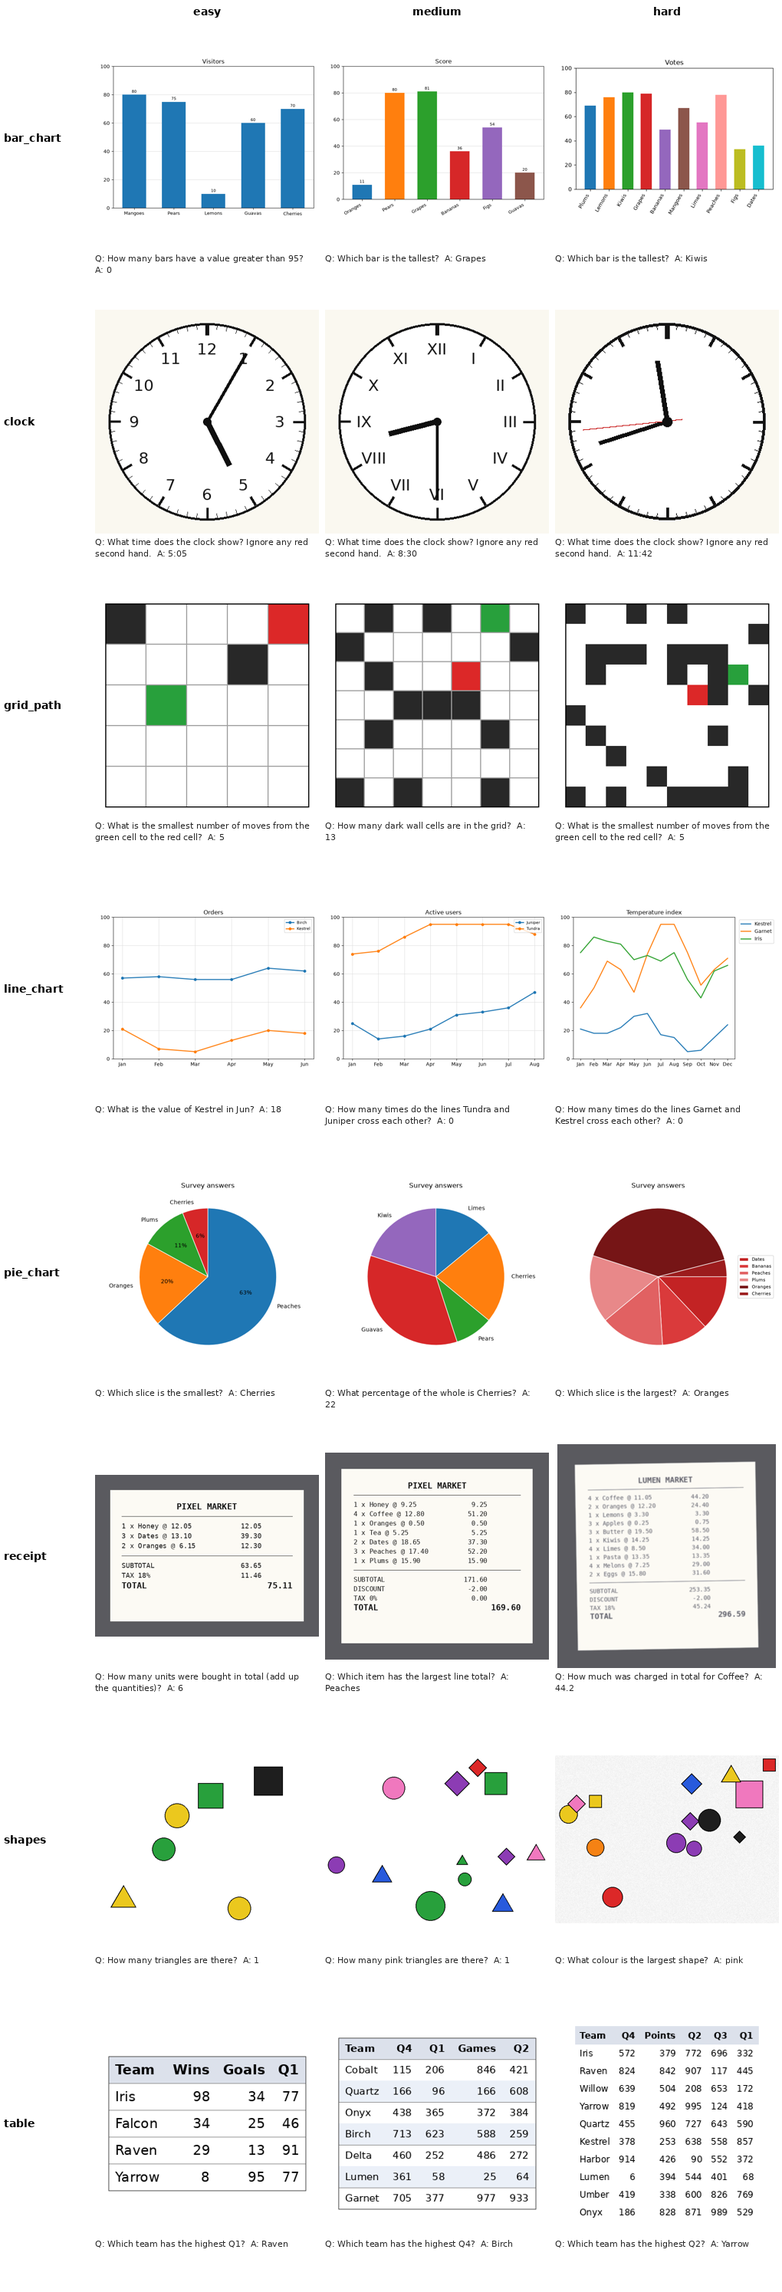
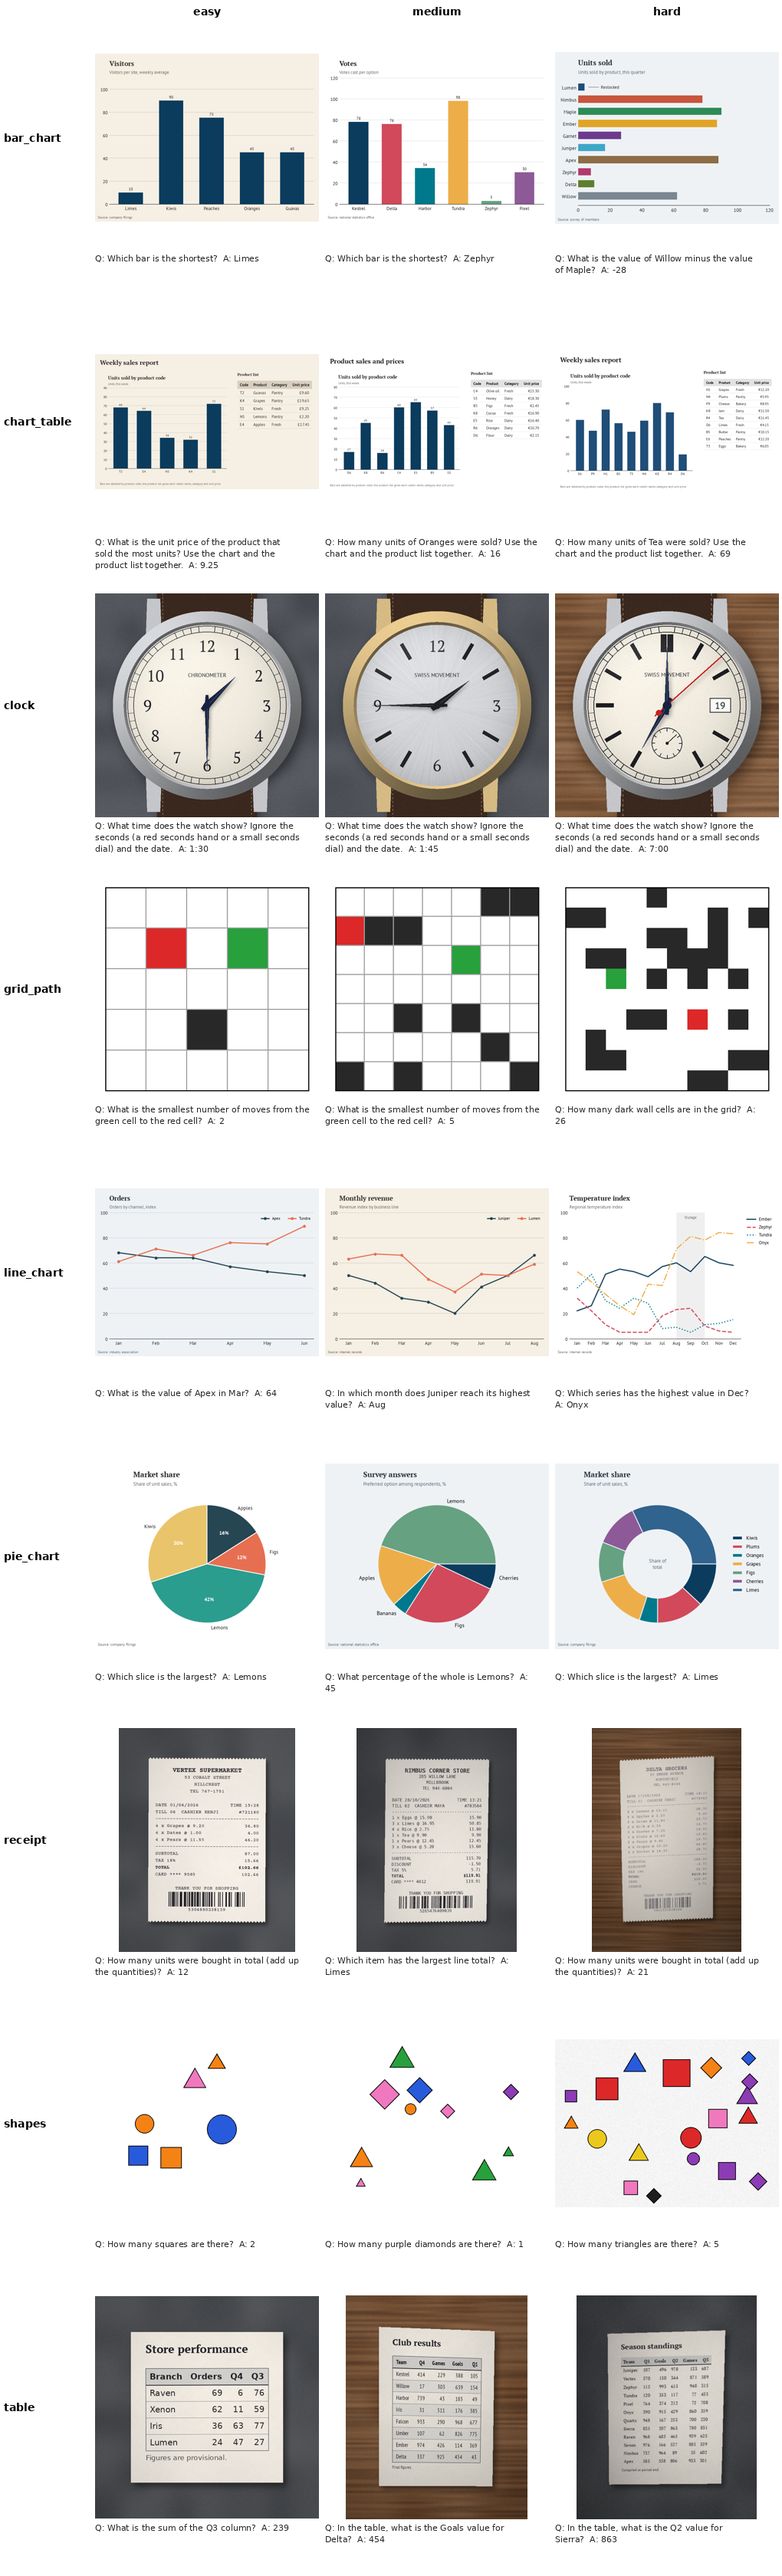
Docs and Docker: cover chart_table and the determinism script, v2 sample sheet, copy scripts into the image

diff --git a/README.md b/README.md
@@ -23,10 +23,11 @@ Make synthetic pictures with questions whose answers are known by construction, 
 | line_chart | highest series in a month, value at a point, peak month, crossings | series count, points, markers, gridlines, legend outside, line styles |
 | pie_chart | largest, smallest, share of a slice | slices, percentages shown / names only / legend only, similar shades, start angle |
 | shapes | count by colour, by kind, by both; colour of the largest; leftmost kind; total | object count, colours, overlap, noisy background |
-| clock | read the time; minutes to the next hour | numerals all / quarters / Roman / none, minute ticks, second hand, similar hand lengths |
-| table | cell lookup, column sum, row with the max, count above a threshold | rows, columns, font size, zebra stripes, rules on/off |
-| receipt | final total, units bought, line total, priciest item | items, discount, skew, blur, faded ink |
+| clock | read the time; minutes to the next hour | watch dials: numerals all / quarters / Roman / none, minute ticks, second hand, subdial, date window, bevel and shadow, similar hand lengths |
+| table | cell lookup, column sum, row with the max, count above a threshold | rows, columns, font size, zebra stripes, rules on/off, photographed sheet (paper, skew, lighting) |
+| receipt | final total, units bought, line total, priciest item | photographed thermal receipt: store header, barcode, five currencies (decimal comma for euro), items, discount, skew, perspective, uneven light, faded ink, dot dropout |
 | grid_path | shortest path length, reachable or not, wall count | grid size, wall density, grid lines |
+| chart_table | product with most or fewest units, units of a product, price of the top seller, revenue leader, units in a category (needs the chart and the table together) | products, value labels on/off, gridlines, theme, palette, font size, currency |
 
 ## Setup
 
@@ -34,7 +35,8 @@ Needs Python 3.12 and [uv](https://docs.astral.sh/uv/).
 
 ```bash
 uv sync
-scripts/demo.sh                     # 72 items, validation, oracle and random baselines, report
+scripts/demo.sh                     # 81 items, validation, oracle and random baselines, report
+scripts/determinism.sh runs/det 7 10   # generate twice, validate both, compare every PNG and JSON byte for byte
 ```
 
 With a local model (free, CPU is enough):
@@ -45,10 +47,22 @@ scripts/serve.sh qwen2.5-vl-3b 8090 &
 scripts/demo.sh http://127.0.0.1:8090 qwen2.5-vl-3b
 ```
 
+## Docker
+
+The image pins its base images by digest and installs from the lock file.
+
+```bash
+docker build -t vtf .
+docker run --rm vtf                                    # test suite
+docker run --rm -v "$PWD/out:/data" vtf uv run --frozen vtf generate /data/ds --seed 7
+docker run --rm -v "$PWD/out:/data" vtf uv run --frozen vtf validate /data/ds --seed 7
+docker run --rm -v "$PWD/out:/data" vtf scripts/determinism.sh /data/det 7 10
+```
+
 ## Commands
 
 ```bash
-uv run vtf generate runs/main --per-cell 15 --seed 7      # 8 families x 3 difficulties x 15 = 360 items
+uv run vtf generate runs/main --per-cell 15 --seed 7      # 9 families x 3 difficulties x 15 = 405 items
 uv run vtf validate runs/main --seed 7                    # regenerate + re-derive + re-probe + grader self-test
 uv run vtf run runs/main oracle                           # must score 100%
 uv run vtf run runs/main random                           # lower bound
@@ -72,6 +86,8 @@ Write four functions and register them (see `src/vtf/families/scenes.py`):
 Then add the matching rule to `src/vtf/verify.py`. `vtf validate` and the tests pick the family up on their own.
 
 ## Results and write-up
+
+These numbers were measured on the first version of the renderers, before the realism upgrade and before chart_table existed.
 
 Main set (360 items, every validation check 360/360): Qwen2.5-VL-3B 61% (71%/57%/55% easy to hard), Gemma 3 4B 47% (57%/44%/41%), SmolVLM2 2.2B 45% (58%/43%/32%). Oracle 100%, random 10%.
 
